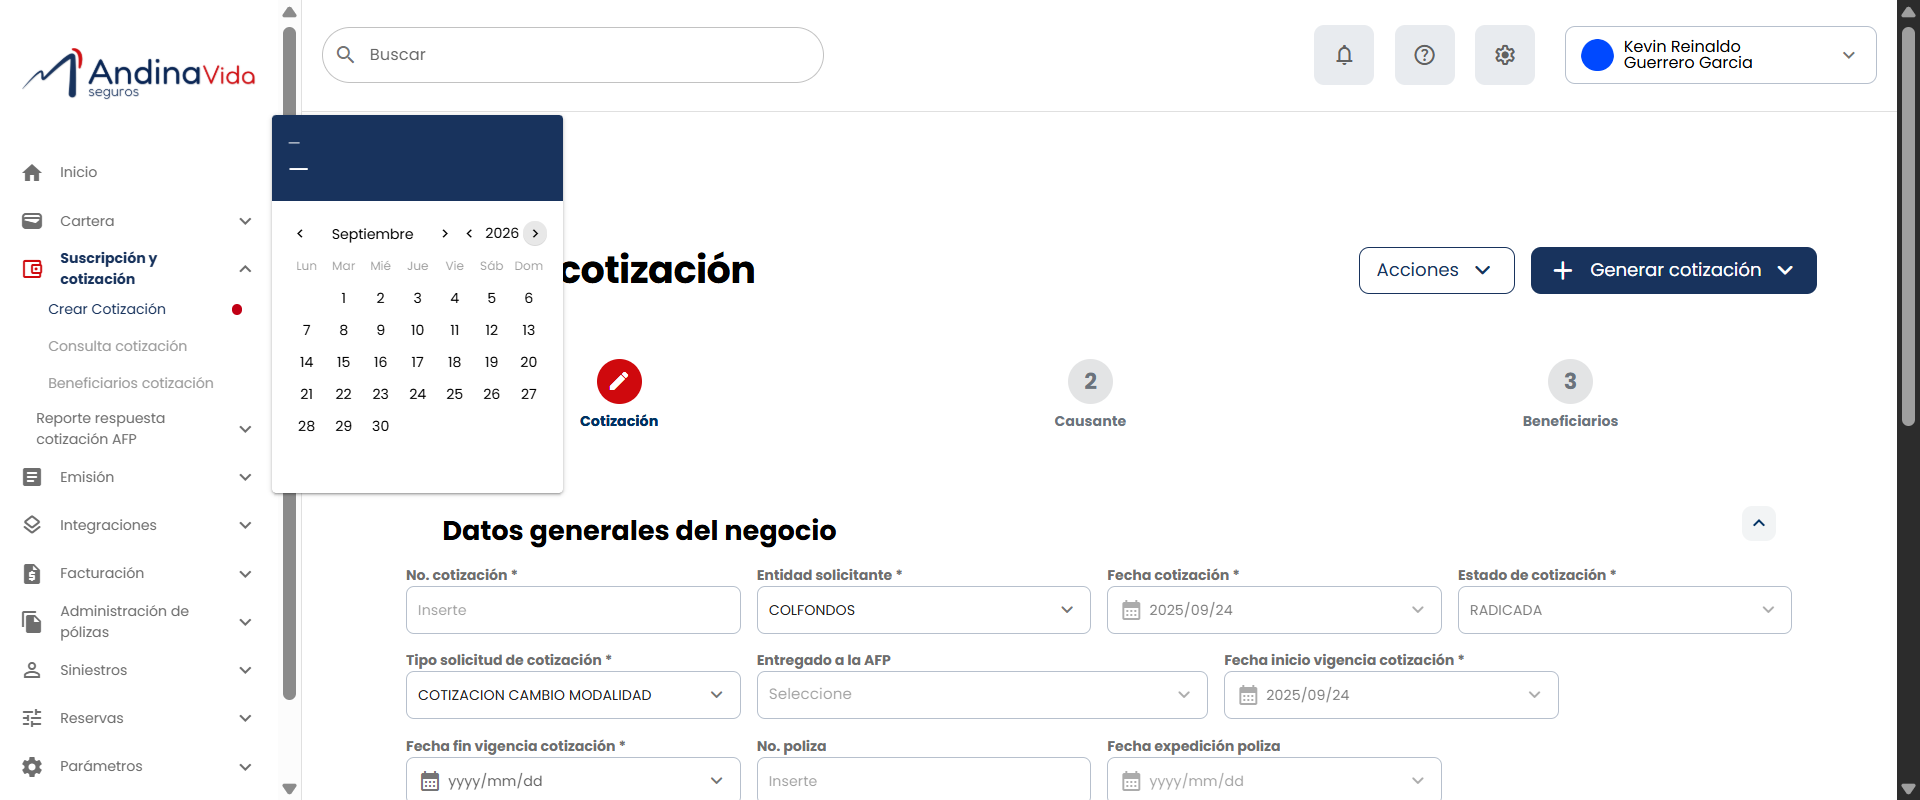
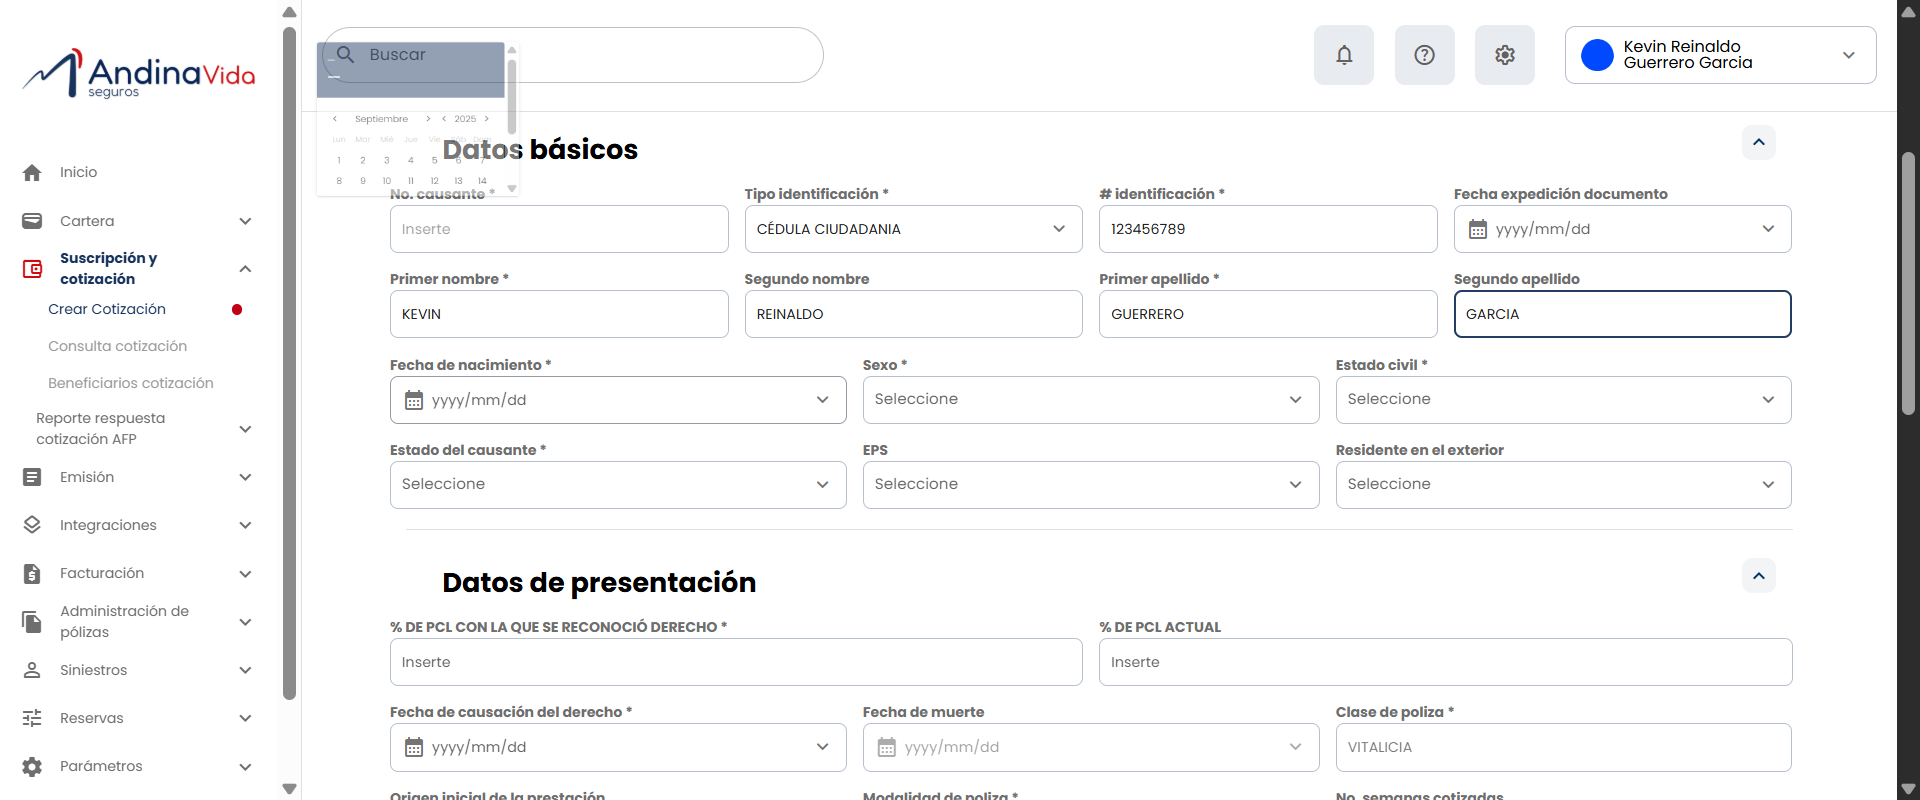
Cotización segunda hoja, fecha nacimiento 1.0

diff --git a/cotizacion.py b/cotizacion.py
@@ -71,6 +71,7 @@ if driver:
         print("Se agrega una opción de esta lista desplegable")
 
         # 6. Aquí vamos a agregar una "Fecha Fin Vigencia Cotización" usando la navegación del calendario
+        fecha_fin = date.today() + relativedelta(years=2)
         clic_fecha_cotizacion = WebDriverWait(driver, 20).until(
             EC.element_to_be_clickable((By.XPATH, "//span[contains(text(), 'Fecha fin vigencia cotización *')]/following-sibling::label"))
         )
@@ -230,7 +231,7 @@ if driver:
         print("Número de identificación ingresado.")
 
 
-        # 3. Ahora vamos a agregar la fecha de expedición del documento (VERSIÓN FINAL BIDIRECCIONAL)
+        # 3. Ahora vamos a agregar la fecha de expedición del documento
         
         # Abre el calendario
         fecha_exp_doc = WebDriverWait(driver, 20).until(
@@ -238,8 +239,6 @@ if driver:
         )
         fecha_exp_doc.click()
         print("Se abre el panel para asignar una fecha.")
-
-        # --- INICIO DE LA LÓGICA DE NAVEGACIÓN FINAL ---
 
         # Definimos el objetivo y herramientas
         fecha_objetivo = date(2014, 11, 14)
@@ -346,12 +345,185 @@ if driver:
         Segundo_apellido.send_keys("Garcia")
         print("Segundo apellido registrado")
 
-        # 8. Ahora vamos a agregar la Fecha de nacimiento *
-        fecha_nacimiento = WebDriverWait(driver, 20).until(
-            EC.element_to_be_clickable((By.XPATH, "//span[text()='Fecha expedición documento']/following-sibling::label"))
+
+        # 8. Fecha de nacimiento
+        objetivo_nacimiento = date(1960, 11, 1)
+
+        # PASO A: HACER SCROLL Y ABRIR EL CALENDARIO
+        fecha_nac_locator = (By.XPATH, "//span[text()='Fecha de nacimiento *']/following-sibling::label")
+        fecha_nac_element = WebDriverWait(driver, 20).until(EC.presence_of_element_located(fecha_nac_locator))
+        driver.execute_script("arguments[0].scrollIntoView({block: 'center'});", fecha_nac_element)
+        time.sleep(0.5)
+        fecha_nac_element.click()
+        print("Calendario de Fecha de Nacimiento abierto.")
+
+        # PASO B: ABRIR LA VISTA DE AÑOS
+        print("Abriendo la vista de selección de año...")
+        year_view_button_locator = (By.XPATH, "(//div[contains(@class, 'q-menu') and not(contains(@style, 'display: none'))]//div[contains(@class, 'q-date__navigation')]//button[.//span[@class='block']])[2]")
+        year_view_button = WebDriverWait(driver, 10).until(EC.element_to_be_clickable(year_view_button_locator))
+        year_view_button.click()
+        time.sleep(0.5)
+
+        # --- INICIO DE LA LÓGICA CORREGIDA ---
+        
+        print(f"Buscando el año {objetivo_nacimiento.year}...")
+        
+        año_objetivo_locator = (By.XPATH, f"//div[@class='q-date__years-content']//span[text()='{objetivo_nacimiento.year}']")
+        flecha_anterior_decada_locator = (By.XPATH, "//button[@aria-label='Anterior 20 años']")
+        
+        for i in range(10):
+            try:
+                # Intenta encontrar el año objetivo. Si lo encuentra, salimos del bucle.
+                # Usamos una espera muy corta (1 segundo) para no perder tiempo.
+                WebDriverWait(driver, 1).until(EC.visibility_of_element_located(año_objetivo_locator))
+                print(f"Año {objetivo_nacimiento.year} encontrado en la vista.")
+                break
+            except TimeoutException:
+                # Si no lo encuentra, es normal. Hacemos clic para retroceder.
+                print(f"Intento {i+1}: El año {objetivo_nacimiento.year} no es visible. Retrocediendo 20 años...")
+                flecha_anterior = WebDriverWait(driver, 10).until(EC.element_to_be_clickable(flecha_anterior_decada_locator))
+                flecha_anterior.click()
+                # Pausa simple para la animación. Es menos "inteligente" pero más fiable en este caso.
+                time.sleep(0.5)
+        else:
+            raise Exception(f"No se pudo encontrar el año {objetivo_nacimiento.year} después de 10 intentos.")
+
+        # --- FIN DE LA LÓGICA CORREGIDA ---
+
+        # PASO D: SELECCIONAR EL AÑO ENCONTRADO
+        print(f"Seleccionando el año {objetivo_nacimiento.year}...")
+        año_a_seleccionar = WebDriverWait(driver, 10).until(
+            EC.element_to_be_clickable(año_objetivo_locator)
         )
-        fecha_nacimiento.click()
-        print("Se abre el panel para asignar una fecha.")
+        año_a_seleccionar.click()
+        
+        # PASO E: NAVEGAR AL MES CORRECTO
+        meses_a_numero = {
+            'enero': 1, 'febrero': 2, 'marzo': 3, 'abril': 4, 'mayo': 5, 'junio': 6,
+            'julio': 7, 'agosto': 8, 'septiembre': 9, 'octubre': 10, 'noviembre': 11, 'diciembre': 12
+        }
+        
+        month_locator = (By.XPATH, "(//div[contains(@class, 'q-date__navigation')]//button//span[@class='block'])[1]")
+        prev_month_btn_locator = (By.XPATH, "//button[@aria-label='Mes anterior']")
+        next_month_btn_locator = (By.XPATH, "//button[@aria-label='Mes siguiente']")
+        
+        while True:
+            month_element = WebDriverWait(driver, 10).until(EC.visibility_of_element_located(month_locator))
+            current_month_num = meses_a_numero[month_element.text.lower()]
+            
+            if current_month_num == objetivo_nacimiento.month:
+                print(f"Mes correcto encontrado: {month_element.text}")
+                break
+            
+            if current_month_num > objetivo_nacimiento.month:
+                btn_to_click_locator = prev_month_btn_locator
+            else:
+                btn_to_click_locator = next_month_btn_locator
+            
+            btn_to_click = WebDriverWait(driver, 10).until(EC.element_to_be_clickable(btn_to_click_locator))
+            btn_to_click.click()
+            WebDriverWait(driver, 10).until(EC.staleness_of(month_element))
+            
+        # PASO F: SELECCIONAR EL DÍA
+        print(f"Seleccionando el día {objetivo_nacimiento.day}...")
+        day_locator = (By.XPATH, f"//div[contains(@class, 'q-date__calendar-days')]//button[.//span[text()='{objetivo_nacimiento.day}']]")
+        day_to_select = WebDriverWait(driver, 10).until(EC.element_to_be_clickable(day_locator))
+        day_to_select.click()
+        
+        print(f"Fecha de Nacimiento seleccionada: {objetivo_nacimiento.strftime('%d de %B de %Y')}")
+
+
+
+        # # Definimos el objetivo y herramientas
+        # fecha_objetivo = date(2014, 11, 14)
+        # meses_a_numero = {
+        #     'enero': 1, 'febrero': 2, 'marzo': 3, 'abril': 4, 'mayo': 5, 'junio': 6,
+        #     'julio': 7, 'agosto': 8, 'septiembre': 9, 'octubre': 10, 'noviembre': 11, 'diciembre': 12
+        # }
+
+
+
+
+
+
+        # # 3. Ahora vamos a agregar la fecha de expedición del documento
+        
+        # # Abre el calendario
+        # fecha_exp_doc = WebDriverWait(driver, 20).until(
+        #     EC.element_to_be_clickable((By.XPATH, "//span[text()='Fecha expedición documento']/following-sibling::label"))
+        # )
+        # fecha_exp_doc.click()
+        # print("Se abre el panel para asignar una fecha.")
+
+        # # Definimos el objetivo y herramientas
+        # fecha_objetivo = date(2014, 11, 14)
+        # meses_a_numero = {
+        #     'enero': 1, 'febrero': 2, 'marzo': 3, 'abril': 4, 'mayo': 5, 'junio': 6,
+        #     'julio': 7, 'agosto': 8, 'septiembre': 9, 'octubre': 10, 'noviembre': 11, 'diciembre': 12
+        # }
+
+        # # Bucle principal para ajustar Año y Mes
+        # print(f"Buscando la fecha: {fecha_objetivo.strftime('%B de %Y')}...")
+        
+        # # Localizadores de lectura
+        # year_locator = (By.XPATH, "(//div[contains(@class, 'q-date__navigation')]//button//span[@class='block'])[2]")
+        # month_locator = (By.XPATH, "(//div[contains(@class, 'q-date__navigation')]//button//span[@class='block'])[1]")
+        
+        # # --- AÑADIMOS BOTONES PARA NAVEGAR HACIA ADELANTE ---
+        # prev_year_btn_locator = (By.XPATH, "//button[@aria-label='Año anterior']")
+        # next_year_btn_locator = (By.XPATH, "//button[@aria-label='Año siguiente']")
+        # prev_month_btn_locator = (By.XPATH, "//button[@aria-label='Mes anterior']")
+        # next_month_btn_locator = (By.XPATH, "//button[@aria-label='Mes siguiente']")
+        
+        # while True:
+        #     # Leemos el estado actual del calendario
+        #     year_element = WebDriverWait(driver, 10).until(EC.visibility_of_element_located(year_locator))
+        #     month_element = WebDriverWait(driver, 10).until(EC.visibility_of_element_located(month_locator))
+        #     current_year = int(year_element.text)
+        #     current_month = meses_a_numero[month_element.text.lower()]
+            
+        #     # Condición de salida: si ya llegamos, rompemos el bucle
+        #     if current_year == fecha_objetivo.year and current_month == fecha_objetivo.month:
+        #         print(f"Mes y año correctos encontrados: {month_element.text} de {current_year}")
+        #         break
+
+        #     # Lógica de decisión bidireccional
+        #     element_to_wait_for = None # Para saber qué elemento debe refrescarse
+        #     btn_locator_to_click = None
+
+        #     if current_year > fecha_objetivo.year:
+        #         btn_locator_to_click = prev_year_btn_locator
+        #         element_to_wait_for = year_element
+        #     elif current_year < fecha_objetivo.year:
+        #         btn_locator_to_click = next_year_btn_locator
+        #         element_to_wait_for = year_element
+        #     # Si los años son iguales, ajustamos el mes
+        #     elif current_month > fecha_objetivo.month:
+        #         btn_locator_to_click = prev_month_btn_locator
+        #         element_to_wait_for = month_element
+        #     elif current_month < fecha_objetivo.month:
+        #         btn_locator_to_click = next_month_btn_locator
+        #         element_to_wait_for = month_element
+
+        #     # Ejecutamos el clic y la espera
+        #     if btn_locator_to_click and element_to_wait_for:
+        #         WebDriverWait(driver, 10).until(EC.element_to_be_clickable(btn_locator_to_click)).click()
+        #         WebDriverWait(driver, 10).until(EC.staleness_of(element_to_wait_for))
+        #     else:
+        #         # Si no hay ninguna acción que tomar, salimos para evitar un bucle infinito
+        #         print("Error de lógica, saliendo del bucle.")
+        #         break
+
+        # # SELECCIONAR EL DÍA
+        # print(f"Seleccionando el día {fecha_objetivo.day}...")
+        # day_locator = (By.XPATH, f"//div[contains(@class, 'q-date__calendar-days')]//button[.//span[text()='{fecha_objetivo.day}']]")
+        # day_element = WebDriverWait(driver, 10).until(EC.element_to_be_clickable(day_locator))
+        # driver.execute_script("arguments[0].click();", day_element)
+        
+        # print(f"Fecha completa seleccionada: {fecha_objetivo.strftime('%d de %B de %Y')}")
+
+        # # --- FIN DE LA LÓGICA DE NAVEGACIÓN FINAL ---
+
 
 
 
@@ -360,7 +532,7 @@ if driver:
 
 
         print("Proceso de cotización finalizado.")
-
+        time.sleep(5)    
     except TimeoutException:
         print("Se agotó el tiempo de espera. El elemento no se encontró o no era clickeable.")
     except Exception as e:
